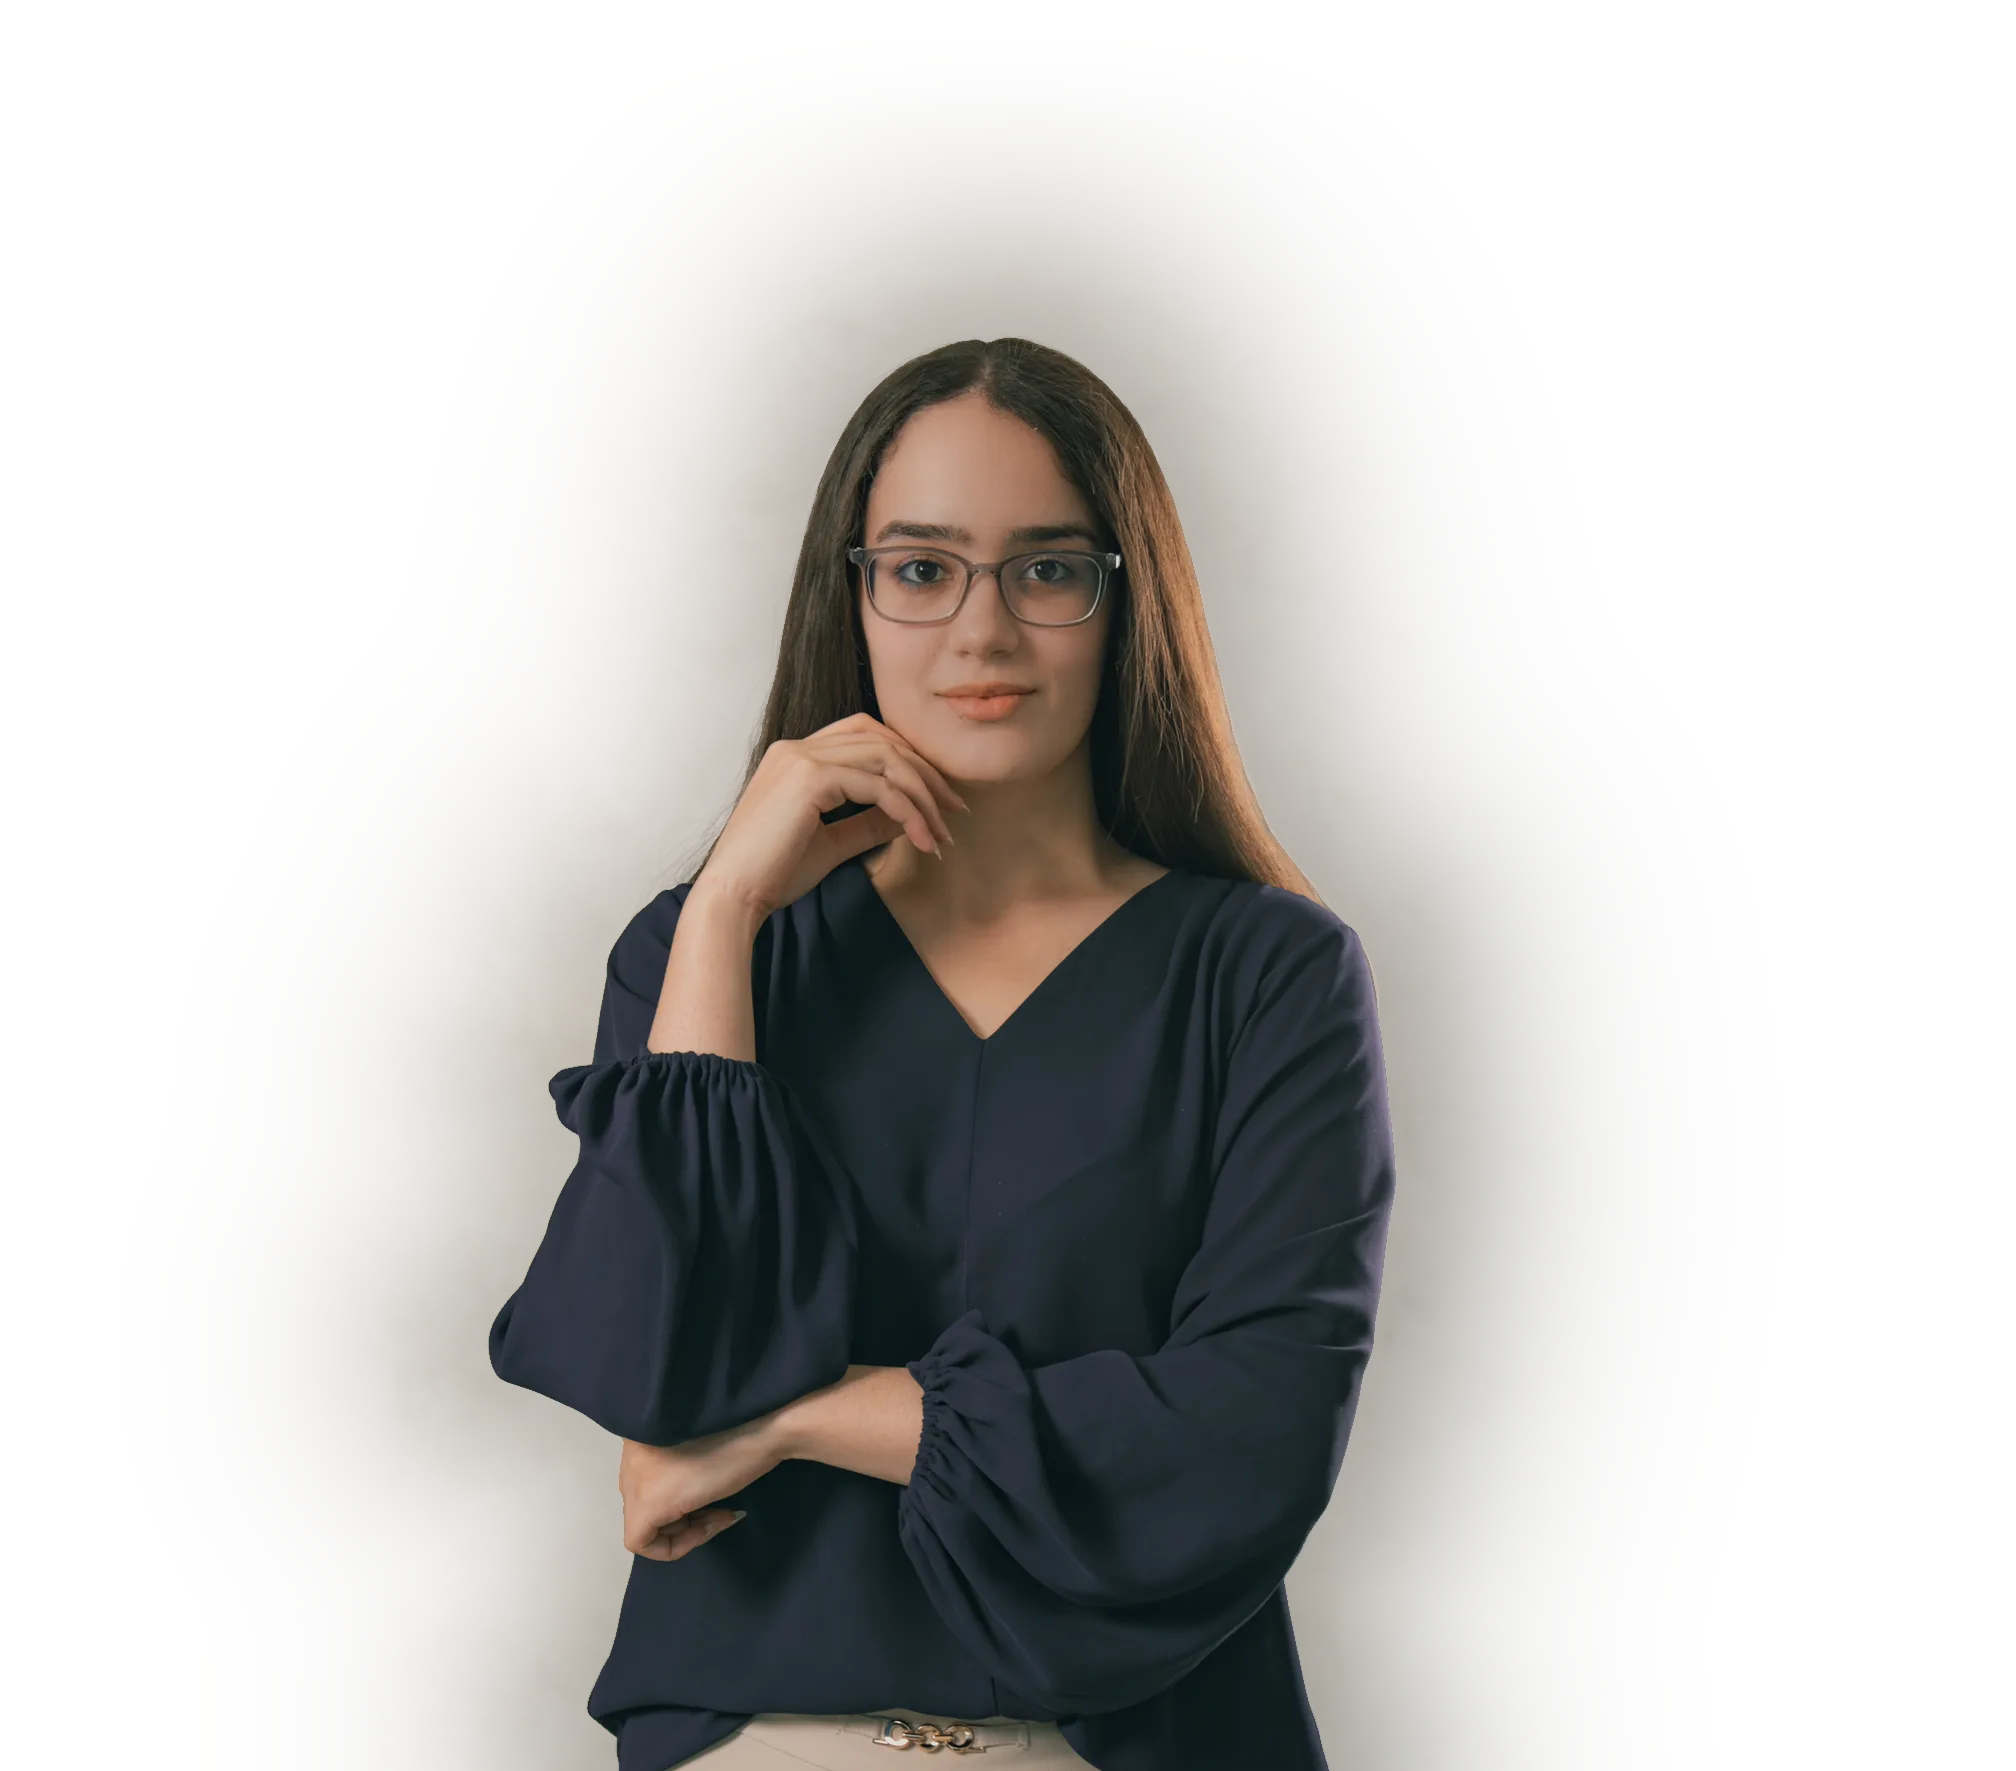
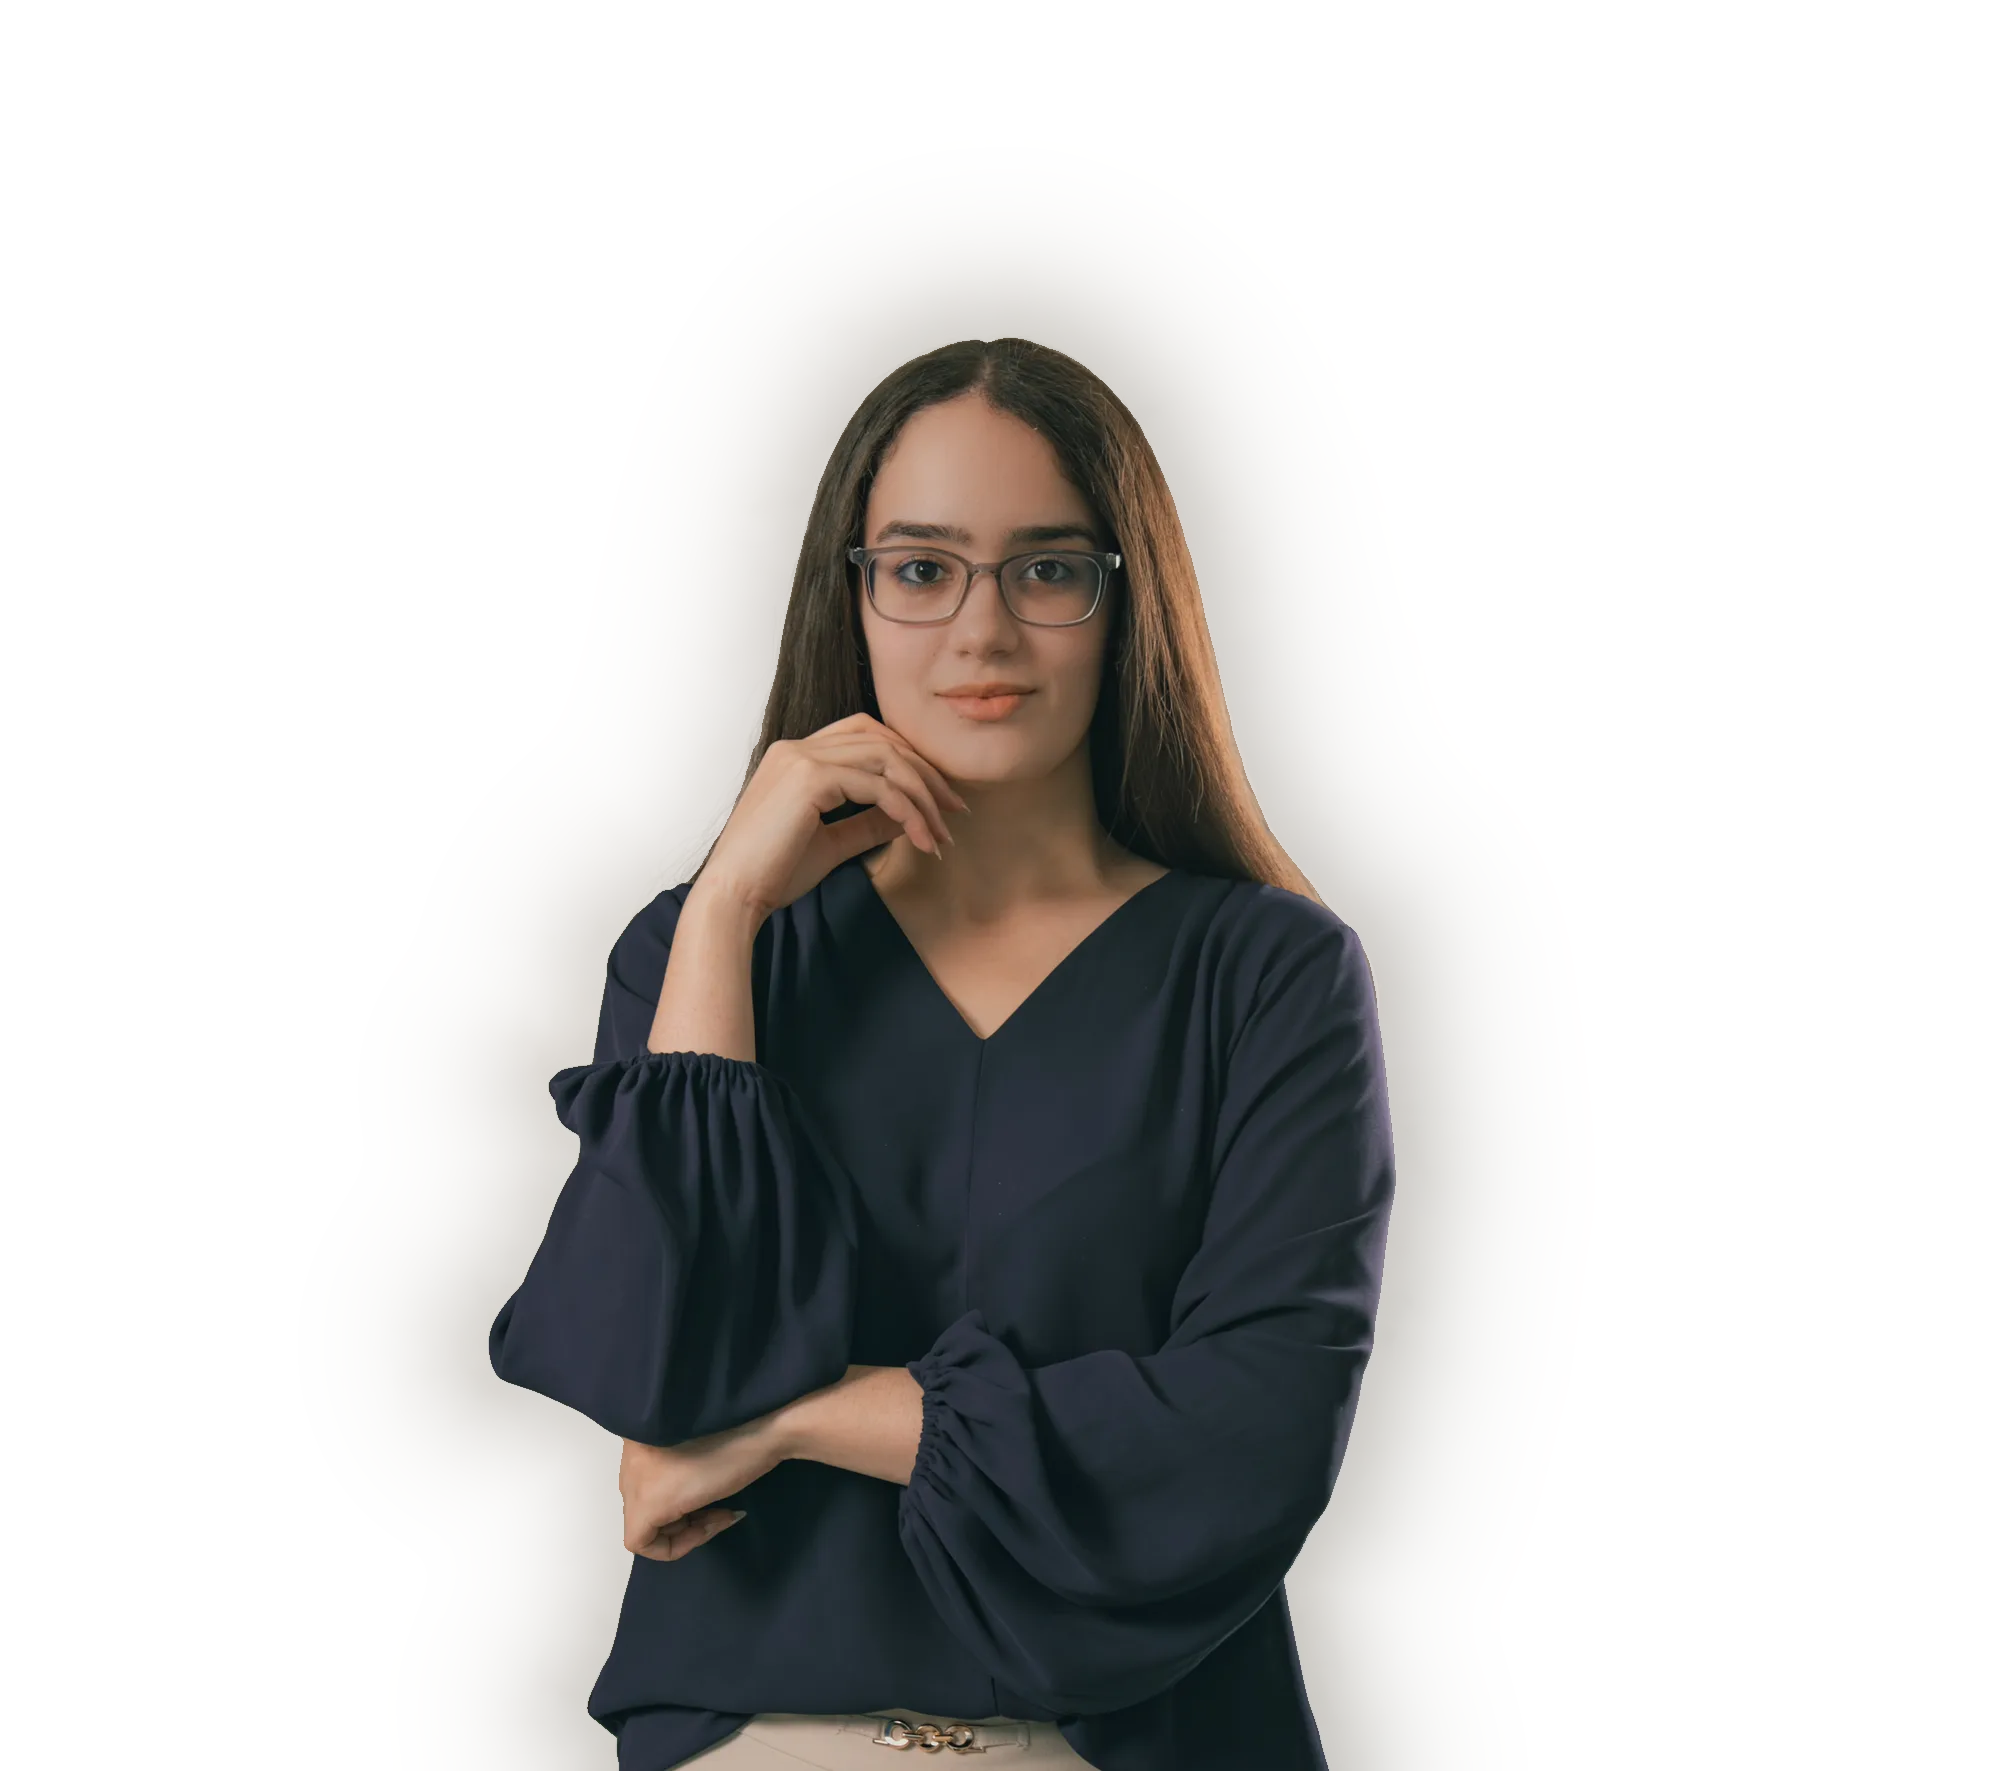
Halo del retrato corto y tenue, sólo por los bordes
El degradado amplio y claro alrededor de la cabeza se leía como una
aureola. Ahora es un resplandor corto y de poca intensidad en los dos
temas; el pelo sigue limpio.

Changed region(s): [[0.1562, 0.0932, 0.7812, 1.0]]

diff --git a/scripts/brand/portrait_layers.py b/scripts/brand/portrait_layers.py
@@ -36,8 +36,8 @@ THEMES = ("dark", "light")
 BG = {"dark": (15, 21, 29), "light": (244, 241, 236)}   # --background de cada tema
 HALO = {
     # reach: hasta dónde llega (ancho de foto); curve: cola; strength: máximo.
-    "dark": {"reach": 0.5, "curve": 2.6, "strength": 0.8, "tint": 0.72, "tint_at": 0.2},
-    "light": {"reach": 0.3, "curve": 2.2, "strength": 0.7, "tint": 0.6, "tint_at": 0.2},
+    "dark": {"reach": 0.22, "curve": 2.2, "strength": 0.34, "tint": 0.55, "tint_at": 0.12},
+    "light": {"reach": 0.16, "curve": 2.0, "strength": 0.42, "tint": 0.6, "tint_at": 0.1},
 }
 RIM = {"dark": (240, 206, 150), "light": (255, 248, 236)}
 
@@ -64,7 +64,7 @@ def write_layers(scene_wall, photo, A, dist, edge, W):
         c = HALO[theme]
         fall = np.clip(1 - dist / (W * c["reach"]), 0, 1) ** c["curve"]
         # Desenfocada: la distancia marca aristas en los huecos de la silueta.
-        fall = gaussian_filter(fall, 45)
+        fall = gaussian_filter(fall, 20)
         keep = fall * c["strength"] * edge
         tint = (ss(dist / (W * c["tint_at"])) * c["tint"])[..., None]
         wall = scene_wall * (1 - tint) + np.array(BG[theme], np.float32) * tint

diff --git a/AGENTS.md b/AGENTS.md
@@ -135,6 +135,8 @@ silencio.
   el color va hacia el del fondo (`HALO` en `portrait_layers.py`): sólo con
   alfa, la pared clara sobre el marino se leía como una mancha con forma.
   Cualquier banda especial junto al contorno se lee como un aura de recorte.
+  Y corto y tenue, sólo por los bordes: con un halo amplio y claro alrededor
+  de la cabeza parecía una estampita de la Virgen.
   La pared se prolonga a los lados y hacia arriba para que el degradado tenga
   sitio (la foto sólo tenía ~60–100 px).
 - **En claro el halo es más corto y la blusa se funde sólo al final:** la
